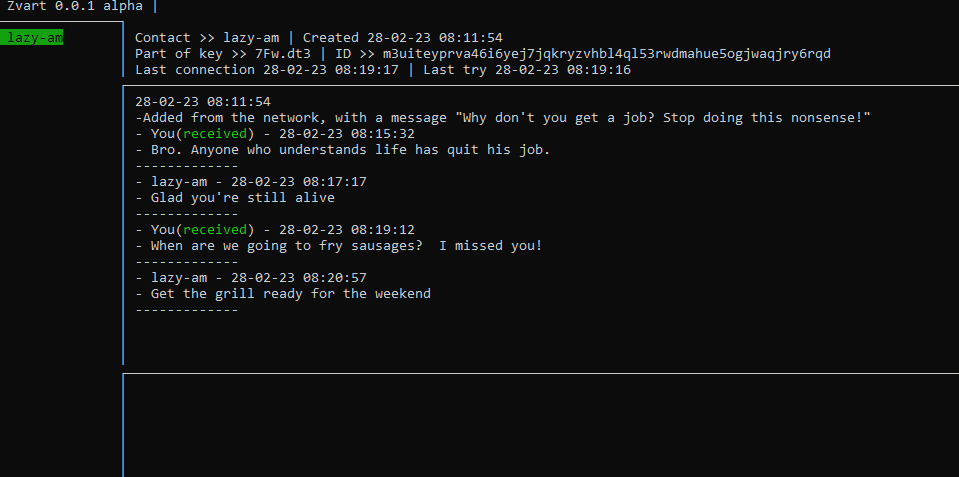
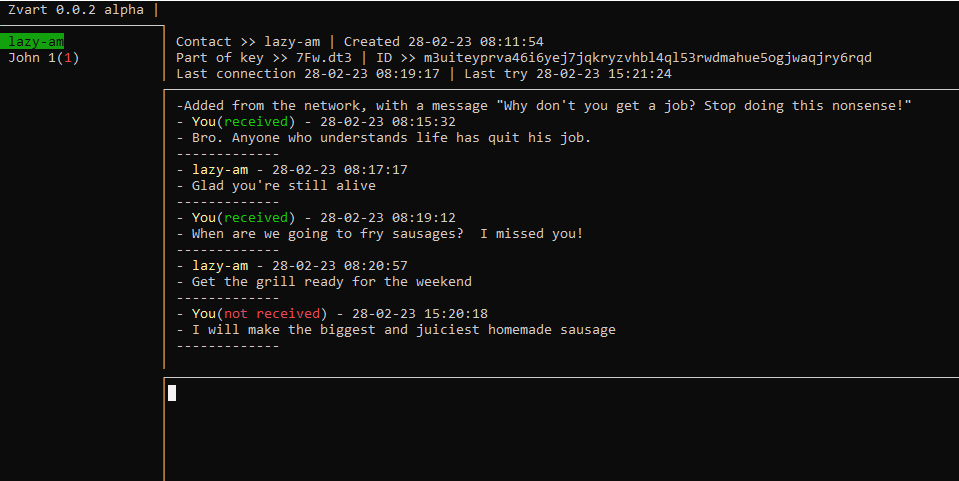
Bugfix, add base sound effects (0.0.2 version)

Changed region(s): [[0.0, 0.0, 1.0, 0.7044], [0.1512, 0.7631, 1.0, 0.8512]]

diff --git a/internal/ui/gocui/mainwindow/main.go b/internal/ui/gocui/mainwindow/main.go
@@ -28,12 +28,13 @@ const (
 )
 
 type Window struct {
-	G                 *gocui.Gui
-	status            *status.Status
-	ctx               context.Context
-	concelF           context.CancelFunc
-	activeContact     int
-	oldPrintedContact *contact.Contact
+	G                   *gocui.Gui
+	status              *status.Status
+	ctx                 context.Context
+	concelF             context.CancelFunc
+	activeContact       int
+	oldPrintedContact   *contact.Contact
+	standartHelpPrinted bool
 }
 
 func (w *Window) Init() {
@@ -52,7 +53,7 @@ func (w *Window) Init() {
 
 func (w *Window) layout(g *gocui.Gui) error {
 
-	const contactsX = 15
+	const contactsX = 20
 
 	maxX, maxY := g.Size()
 
@@ -159,6 +160,14 @@ func (w *Window) keybindings() error {
 		return err
 	}
 
+	err = w.G.SetKeybinding(mesEditView,
+		gocui.KeyCtrlTilde,
+		gocui.ModNone,
+		w.clearActiveContact)
+	if err != nil {
+		return err
+	}
+
 	if err := w.G.SetKeybinding(contactListView,
 		gocui.MouseLeft,
 		gocui.ModNone,
@@ -220,17 +229,27 @@ func (w *Window) sendClick(g *gocui.Gui, v *gocui.View) error {
 	w.G.Update(func(g2 *gocui.Gui) error {
 
 		edit, _ := g2.View(mesEditView)
-		if len(edit.BufferLines()) == 0 {
+		lines := edit.BufferLines()
+
+		if len(lines) == 0 {
 			return nil
 		}
 
-		if fs := edit.BufferLines()[0]; fs[0] == ':' && len(edit.BufferLines()) == 1 {
+		finalLines := []string{}
+		for _, l := range lines {
+			if l == "" {
+				l = "\n"
+			}
+			finalLines = append(finalLines, l)
+		}
+
+		if fs := finalLines[0]; fs[0] == ':' && len(finalLines) == 1 {
 			app.CmdDecode(fs)
 		} else {
-			if w.activeContact < 0 {
+			if w.activeContact == -1 {
 				return nil
 			}
-			app.Zvart.SendTextTo(uint64(w.activeContact), edit.BufferLines())
+			app.Zvart.SendTextTo(uint64(w.activeContact), finalLines)
 		}
 
 		edit.Clear()
@@ -238,6 +257,12 @@ func (w *Window) sendClick(g *gocui.Gui, v *gocui.View) error {
 		return nil
 
 	})
+	return nil
+}
+
+func (w *Window) clearActiveContact(g *gocui.Gui, v *gocui.View) error {
+	w.status.Set(" Back to home screen", 10)
+	w.activeContact = -1
 	return nil
 }
 
@@ -341,6 +366,7 @@ func (w *Window) PrintAllMessages(c *contact.Contact) {
 	}
 
 	v, _ := w.G.View(mesListView)
+	v.SetOrigin(0, 0)
 	v.Autoscroll = true
 	v.Clear()
 	fmt.Fprint(v, " "+formats.FormatTime(&c.CreationTime)+"\n")
@@ -397,12 +423,12 @@ func (w *Window) printMessage(c *contact.Contact, m *tmes.TextMessage) {
 	v, _ := w.G.View(mesListView)
 	if m.CreatedByMe {
 		if m.IsSended {
-			fmt.Fprint(v, " - You(\033[32;1mreceived\033[0m) - "+formats.FormatTime(&m.CreationTime)+"\n")
+			fmt.Fprint(v, " - \033[33;1mYou\033[0m(\033[32;1mreceived\033[0m) - "+formats.FormatTime(&m.CreationTime)+"\n")
 		} else {
-			fmt.Fprint(v, " - You(\033[31;1mnot received\033[0m) - "+formats.FormatTime(&m.CreationTime)+"\n")
+			fmt.Fprint(v, " - \033[33;1mYou\033[0m(\033[31;1mnot received\033[0m) - "+formats.FormatTime(&m.CreationTime)+"\n")
 		}
 	} else {
-		fmt.Fprint(v, " - "+c.ReportedName+" - "+formats.FormatTime(&m.CreationTime)+"\n")
+		fmt.Fprint(v, " - \033[33;1m"+c.ReportedName+"\033[0m - "+formats.FormatTime(&m.CreationTime)+"\n")
 	}
 
 	fmt.Fprint(v, " - "+m.Text+"\n")
@@ -410,7 +436,12 @@ func (w *Window) printMessage(c *contact.Contact, m *tmes.TextMessage) {
 }
 
 func (w *Window) printMessages(c *contact.Contact) {
-	if !c.Equal(w.oldPrintedContact) {
+	if c.NeedUpdateGuiInfo || !c.Equal(w.oldPrintedContact) {
+		if c.NeedUpdateGuiInfo {
+			c.NeedUpdateGuiInfo = false
+			c.Save(app.Zvart.Db)
+			app.Zvart.Sound.PlaySound2()
+		}
 		w.PrintAllMessages(c)
 		w.oldPrintedContact = c
 	} else {
@@ -419,9 +450,15 @@ func (w *Window) printMessages(c *contact.Contact) {
 }
 
 func (w *Window) printHelpInMesList() {
+	if w.standartHelpPrinted {
+		return
+	}
+	w.standartHelpPrinted = true
 	w.oldPrintedContact = nil
 	v, _ := w.G.View(mesListView)
+	v.SetOrigin(0, 0)
 	v.Clear()
+	v.Autoscroll = false
 	fmt.Fprint(v, " Welcome to the world of anonymity\n")
 	fmt.Fprint(v, " This is one of the first builds of the program and you will meet a lot of bugs\n")
 	fmt.Fprint(v, " After the Tor is fully connected you will see a long link to your account\n")
@@ -437,6 +474,9 @@ func (w *Window) printHelpInMesList() {
 	fmt.Fprint(v, "\n You can help develop the program (translation, programming, donations)\n")
 	fmt.Fprint(v, " Visit \033[33;1mgithub.com/lazy-am/zvart\033[0m for details\n")
 	fmt.Fprint(v, " Mail \033[33;1mLazyOnPascal@proton.me\033[0m\n")
+	fmt.Fprint(v, " --Keyboard shortcuts--\n")
+	fmt.Fprint(v, " \033[33;1mCTRL + Tilde\033[0m Exit from the chat room and return to the this screen\n")
+	fmt.Fprint(v, " \033[33;1mCTRL + Q\033[0m Program exit\n")
 }
 
 func (w *Window) rebuildContacts() {
@@ -449,6 +489,7 @@ func (w *Window) rebuildContacts() {
 	w.G.Update(func(g2 *gocui.Gui) error {
 
 		if len(cl) >= w.activeContact && (w.activeContact != -1) {
+			w.standartHelpPrinted = false
 			w.printAboutContact(cl[w.activeContact-1])
 			w.printMessages(cl[w.activeContact-1])
 		} else {
@@ -460,11 +501,24 @@ func (w *Window) rebuildContacts() {
 		v.Clear()
 
 		for _, c := range cl {
+
 			cline := c.ReportedName
 			if cline == "" {
 				cline = string(c.OnionID)
 			}
-			fmt.Fprint(v, " "+cline)
+
+			mescount, err := tmes.GetMaxId(app.Zvart.Db, c.DbMessagesTableName)
+			if err != nil {
+				return err
+			}
+			viewed := binary.LittleEndian.Uint64(c.LastViewedMessageId)
+			if viewed < mescount {
+				fmt.Fprintf(v, " "+cline+"(\033[31;1m%d\033[0m)\n", mescount-viewed)
+			} else {
+				fmt.Fprint(v, " "+cline+"\n")
+			}
+			//сравнить с c.LastViewedMessageId
+			//если сообщений больше то показать цифру непрочитанных сообщений
 		}
 
 		return nil

diff --git a/internal/core/server/server.go b/internal/core/server/server.go
@@ -15,6 +15,10 @@ const (
 	secBetweenConnectionAttempts = 20
 )
 
+type SoundPlay interface {
+	PlaySound1()
+}
+
 type Server struct {
 	listener   net.Listener
 	errChan    chan error
@@ -22,10 +26,12 @@ type Server struct {
 	cancelFunc context.CancelFunc
 	storage    storage.Storage
 	socksPort  uint16
+	player     SoundPlay
 }
 
-func Init(l net.Listener, db storage.Storage, socksPort uint16) (*Server, error) {
+func Init(l net.Listener, db storage.Storage, socksPort uint16, sound SoundPlay) (*Server, error) {
 	s := Server{errChan: make(chan error, 1), listener: l, storage: db, socksPort: socksPort}
+	s.player = sound
 	s.ctx, s.cancelFunc = context.WithCancel(context.Background())
 	s.resetWork()
 
@@ -33,6 +39,12 @@ func Init(l net.Listener, db storage.Storage, socksPort uint16) (*Server, error)
 	go s.ioutgoingConnections()
 	service.AddService(&s)
 	return &s, nil
+}
+
+func (s *Server) SoundMessagePlay() {
+	if s.player != nil {
+		s.player.PlaySound1()
+	}
 }
 
 func (s *Server) Close() {

diff --git a/internal/core/app/init.go b/internal/core/app/init.go
@@ -8,6 +8,7 @@ import (
 	"strconv"
 
 	"github.com/lazy-am/zvart/internal/core/server"
+	"github.com/lazy-am/zvart/internal/core/sound"
 	"github.com/lazy-am/zvart/internal/core/starter/flags"
 	"github.com/lazy-am/zvart/internal/core/user"
 	"github.com/lazy-am/zvart/internal/storage"
@@ -56,6 +57,10 @@ func InitForNewUser(name, pass string) error {
 }
 
 func commonInit() error {
+
+	Zvart.Sound, _ = sound.Init(filepath.Join("sounds", "notification-sound-7062.mp3"),
+		filepath.Join("sounds", "stop-13692.mp3"))
+
 	listener, err := net.Listen("tcp", "127.0.0.1:"+strconv.Itoa(flags.StartFlags.OnionPort))
 	if err != nil {
 		return err
@@ -78,7 +83,7 @@ func commonInit() error {
 		return err
 	}
 
-	Zvart.Server, err = server.Init(listener, Zvart.Db, uint16(flags.StartFlags.SocksPort))
+	Zvart.Server, err = server.Init(listener, Zvart.Db, uint16(flags.StartFlags.SocksPort), Zvart.Sound)
 	if err != nil {
 		return err
 	}

diff --git a/internal/core/contact/contact.go b/internal/core/contact/contact.go
@@ -61,6 +61,7 @@ type Contact struct {
 	//If any messages are unsent, the variable stores the index of the first one
 	FirstUnsentMessageId []byte
 	LastViewedMessageId  []byte
+	NeedUpdateGuiInfo    bool
 }
 
 func new(db contactStorage) (*Contact, error) {
@@ -220,11 +221,11 @@ func LoadList(db contactStorage) ([]*Contact, error) {
 		return nil, err
 	}
 	cl := []*Contact{}
-	for k, bin := range list {
+	for i := 1; i <= len(list); i++ {
 		var buf []byte = make([]byte, 8)
-		binary.LittleEndian.PutUint64(buf, k)
+		binary.LittleEndian.PutUint64(buf, uint64(i))
 		c := Contact{dbKey: buf}
-		if err := json.Unmarshal(bin, &c); err != nil {
+		if err := json.Unmarshal(list[uint64(i)], &c); err != nil {
 			return nil, err
 		}
 		cl = append(cl, &c)

diff --git a/zvart_test.go b/zvart_test.go
@@ -100,7 +100,7 @@ func TestZvart(t *testing.T) {
 		if err != nil {
 			t.Fatal("tor1 creation error " + err.Error())
 		}
-		_, err = server.Init(listener1, storage1, socksPort1)
+		_, err = server.Init(listener1, storage1, socksPort1, nil)
 		if err != nil {
 			t.Fatal("server1 creation error " + err.Error())
 		}
@@ -119,7 +119,7 @@ func TestZvart(t *testing.T) {
 		if err != nil {
 			t.Fatal("tor2 creation error " + err.Error())
 		}
-		_, err = server.Init(listener2, storage2, socksPort2)
+		_, err = server.Init(listener2, storage2, socksPort2, nil)
 		if err != nil {
 			t.Fatal("server2 creation error " + err.Error())
 		}

diff --git a/internal/core/app/app.go b/internal/core/app/app.go
@@ -5,13 +5,14 @@ import (
 
 	"github.com/lazy-am/zvart/internal/core/contact"
 	"github.com/lazy-am/zvart/internal/core/server"
+	"github.com/lazy-am/zvart/internal/core/sound"
 	"github.com/lazy-am/zvart/internal/core/tmes"
 	"github.com/lazy-am/zvart/internal/storage"
 	"github.com/lazy-am/zvart/internal/torl"
 )
 
 const (
-	Version = "0.0.1 alpha"
+	Version = "0.0.2 alpha"
 )
 
 type app struct {
@@ -20,6 +21,7 @@ type app struct {
 	Server        *server.Server
 	Clipboard     bool
 	Notifications chan string
+	Sound         *sound.AppSound
 }
 
 var Zvart app

diff --git a/internal/core/server/mestext.go b/internal/core/server/mestext.go
@@ -98,6 +98,7 @@ func (s *Server) sendMessages(c *contact.Contact) error {
 				}
 			}
 			c.FirstUnsentMessageId = nil
+			c.NeedUpdateGuiInfo = true
 		}
 	}
 
@@ -143,6 +144,8 @@ func (s *Server) textmesHandler(w http.ResponseWriter, req *http.Request) {
 			return
 		}
 	}
+
+	s.SoundMessagePlay()
 
 	allgood = true
 	enc.Encode(allgood)
